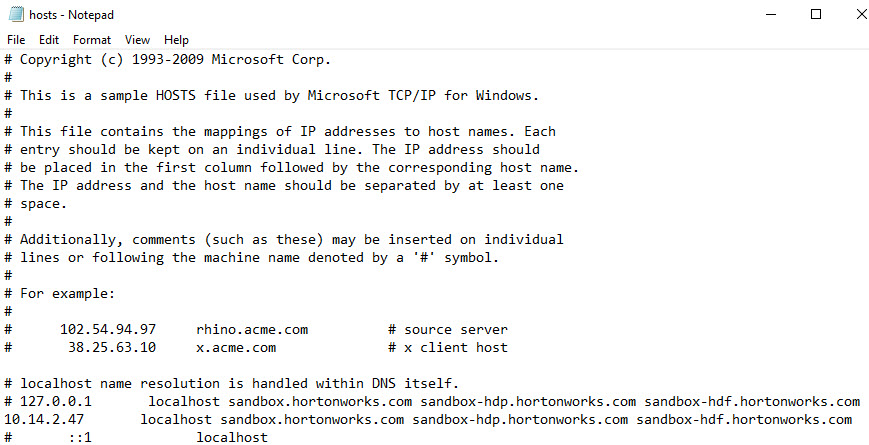
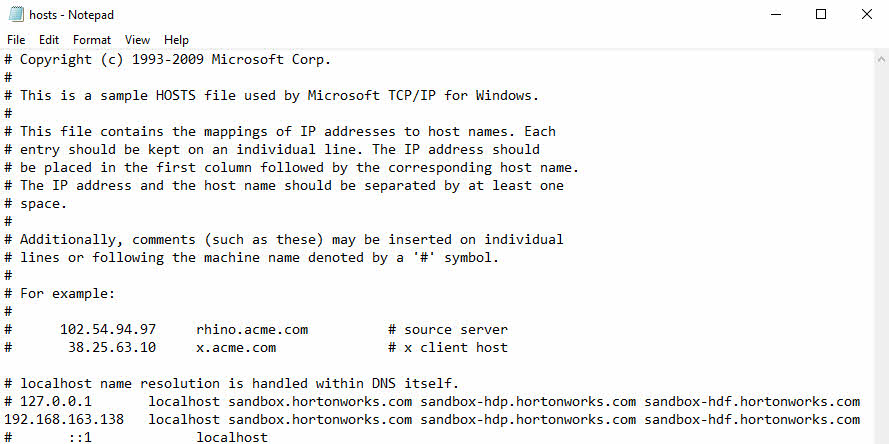
updated tutorial-2 with pictures and steps

diff --git a/tutorials/cda/analyze-iot-weather-station-data-via-connected-data-architecture/tutorial-2.md b/tutorials/cda/analyze-iot-weather-station-data-via-connected-data-architecture/tutorial-2.md
@@ -188,11 +188,16 @@ SSH into the Raspberry Pi using Adafruit's Pi Finder **Terminal** button.
 
 **Figure 15:** Time Zone Calibrated
 
-### Step 2: Configure Bridged Adapter Network for VirtualBox
+### Step 2: Configure Bridged Adapter Network
 
-VirtualBox will be shown as an example in the tutorial flow, but if you are
-a VMware user, the settings will be similar. Open VirtualBox Manager.
-If your Guest VM is running, it will need to be stopped.
+To configure the virtual machine network, it depends on if you are using
+VirtualBox or VMware. If you are using VirtualBox, then you will need to
+perform some steps to generate a unique IP address that can appear on the
+network. However, for VMware users, this feature is enabled by default.
+
+### VirtualBox User
+
+Open VirtualBox Manager. If your Guest VM is running, it will need to be stopped.
 
 1\. Click the Settings gear.
 
@@ -200,23 +205,32 @@ If your Guest VM is running, it will need to be stopped.
 
 3\. In the **Attached to** field, select from the dropdown menu, **Bridged Adapter**.
 
-4\. Verify in **System** tab that the Base Memory is set to **32GB of RAM**.
-
-<!--
-
-You can keep the default setting for the Name of the Bridged Network.
-
 ![set_vm_bridged_network](assets/tutorial2/set_vm_bridged_network.jpg)
 
 **Figure 16:** Setting VirtualBox Guest VM to Bridged Adapter
 
-> Note: Verify your System RAM (Base Memory) is at least 12288 MB (12GB)
+> Note: You can keep the default setting for the Name of the Bridged Network.
 
-![verify_vm_ram_12gb](assets/tutorial2/verify_vm_ram_12gb.jpg)
+4\. Make sure in **System** tab that the Base Memory is set to **32GB of RAM**.
 
-**Figure 17:** Verifying RAM allocation is 32GB
+When you turn on the virtual machine, the IP address can be found under
+**For VMware**. Since we are using VirtualBox, both the welcome screen and ssh
+that are under both header sections are for VirtualBox. You will see you can
+access the web applications from the hostname, ex: **localhost**, or the
+explicit **IP address**.
 
--->
+![sb-guest-welcome](assets/tutorial2/sb-guest-welcome.jpg)
+
+### VMware User
+
+Alternatively, all you need to do to get the **IP address** for VMware is turn
+on the virtual machine and get it from the window that appears:
+
+![vmware-window](assets/tutorial2/vmware-window.jpg)
+
+Note: you can ignore the **For VirtualBox:** and **For VMware:** on the sandbox
+vmware window. They are irrelevant. Both hostname and IP address relate to
+**VMware**.
 
 ### Step 3: Map Bridged IP to Desired Hostname in hosts file
 
@@ -232,11 +246,10 @@ Select **hosts** file and **open** it.
 
 Copy the line with the current IP address mapped to the sandbox hostnames. Comment out that line. Now paste the line below the commented out line.
 
-Replace the current IP address with the Guest VM Bridged IP.
+Earlier when we turn on the sandbox, we were able to get the IP address from the
+virtual machine window.
 
-![sb-guest-welcome](assets/tutorial2/sb-guest-welcome.jpg)
-
-For example, **10.14.2.47** is the one generated for this current session in an office space, but your IP will be different.
+For example on VMware, the IP address **192.168.163.138** is the one generated for this current session in an office space, but your IP will probably be different.
 
 ![hosts-file-updates](assets/tutorial2/hosts-file-updates.jpg)
 
@@ -246,7 +259,7 @@ Save the modified file, **ctrl + s**.
 
 Similar to windows, open the **hosts** file at path **/private/etc/hosts**. Modify the file with your Bridged IP mapped to the sandbox hostnames.
 
-For example, **10.14.2.47** is the Guest VM Bridged IP generated for this current session in an office space, but your IP will be different.
+For example, **192.168.163.138** is the VMware IP generated for this current session in an office space, but your IP will be different.
 
 ~~~bash
 ##
@@ -256,7 +269,7 @@ For example, **10.14.2.47** is the Guest VM Bridged IP generated for this curren
 # when the system is booting.  Do not change this entry.
 ##       
 # 127.0.0.1       localhost sandbox-hdp.hortonworks.com sandbox-hdf.hortonworks.com sandbox-host
-10.14.2.47       localhost sandbox.hortonworks.com sandbox-hdp.hortonworks.com sandbox-hdf.hortonworks.com
+192.168.163.138       localhost sandbox.hortonworks.com sandbox-hdp.hortonworks.com sandbox-hdf.hortonworks.com
 255.255.255.255 broadcasthost
 ::1             localhost
 ~~~
@@ -267,14 +280,14 @@ Save the modified file.
 
 Similar to windows, open the **hosts** file at path **/etc/hosts**. Modify the file with your Bridged IP mapped to the sandbox hostnames.
 
-For example, **10.14.2.47** is the Guest VM Bridged IP generated for this current session in an office space, but your IP will be different.
+For example, **192.168.163.138** is the VMware Guest VM IP generated for this current session in an office space, but your IP will be different.
 
 ~~~bash
 # File is generated from /sandbox/gen-hosts.sh
 # Do not remove the following line, or various programs
 # that require network functionality will fail.
 127.0.0.1         localhost.localdomain localhost sandbox-hdp.hortonworks.com sandbox-hdf.hortonworks.com sandbox-host
-10.14.2.47       localhost sandbox.hortonworks.com sandbox-hdp.hortonworks.com sandbox-hdf.hortonworks.com
+192.168.163.138       localhost sandbox.hortonworks.com sandbox-hdp.hortonworks.com sandbox-hdf.hortonworks.com
 ~~~
 
 Save the modified file.
@@ -311,23 +324,17 @@ Head to `Advanced NiFi-Properties` in Ambari Config Settings for NiFi. Update th
 
 3\. Filter search for **nifi.remote**
 
-![advanced_nifi_properties](assets/tutorial2/nifi_properties_sitetosite.jpg)
-
-**Figure 16:** Update NiFi Config for Site-to-Site
-
-4\. Insert `<your-guest-vm-bridged-ip-address>` in **nifi.remote.input.host**. The image above shows **10.14.2.47**, which was the IP address assigned by the router in an **office network**, for a **home network**, we can see in the image below that the IP address was changed to **192.168.2.10**.
-
-> Note: `<your-guest-vm-bridged-ip-address>` for linux can be found with the terminal command: `hostname -I`. Yet, when you open the sandbox, we present a welcome screen to you that displays the IP address of your guest vm from bridged adapter network. Since we are using VirtualBox, there is a typo "For VMware:", which actually shows the guest vm ip address we want from our VirtualBox VM. VMware Guest VM welcome screen will have the IP address for the VMware Guest VM.
-
-![sb-guest-welcome](assets/tutorial2/sb-guest-welcome.jpg)
-
-**Figure 17:** Get Guest VM IP Address from Sandbox Welcome Screen
+4\. Insert `<your-guest-vm-bridged-ip-address>` in **nifi.remote.input.host**. For example, we inserted **192.168.163.138**.
 
 5\. Verify **nifi.remote.input.http.enabled** checked
 
 6\. Insert `15500` in **nifi.remote.input.socket.port**.
 
 7\. Save the configuration. Write in Notes `Configured NiFi for Socket Site-To-Site`
+
+![advanced_nifi_properties](assets/tutorial2/nifi_properties_sitetosite.jpg)
+
+**Figure 16:** Update NiFi Config for Site-to-Site
 
 Now NiFi is configured for Socket Site-To-Site protocol. If you encounter issues deploying MiNiFi to NiFi flow, it could be because the value **nifi.remote.iput.host** changed or **nifi.remote.input.socket.port** you chose is already being used. Of course there are other reasons for issues, but these two are ones to be mindful of.
 
@@ -341,7 +348,7 @@ Restart NiFi from Ambari with the **orange restart button** for the changes to t
 
 Add the GeoLite2 to HDF Sandbox CentOS, which is a database filled with Public IP Addresses mapped to geographic insights.
 
-1\. Access HDF Web Shell Client at `sandbox-hdf.hortonworks.com:4200`. User/Password is `root/hadoop`.
+1\. Access HDF Web Shell Client at http://sandbox-hdf.hortonworks.com:4200. User/Password is `root/hadoop`.
 
 ![hdf_web_shell](assets/tutorial2/hdf_web_shell.jpg)
 
